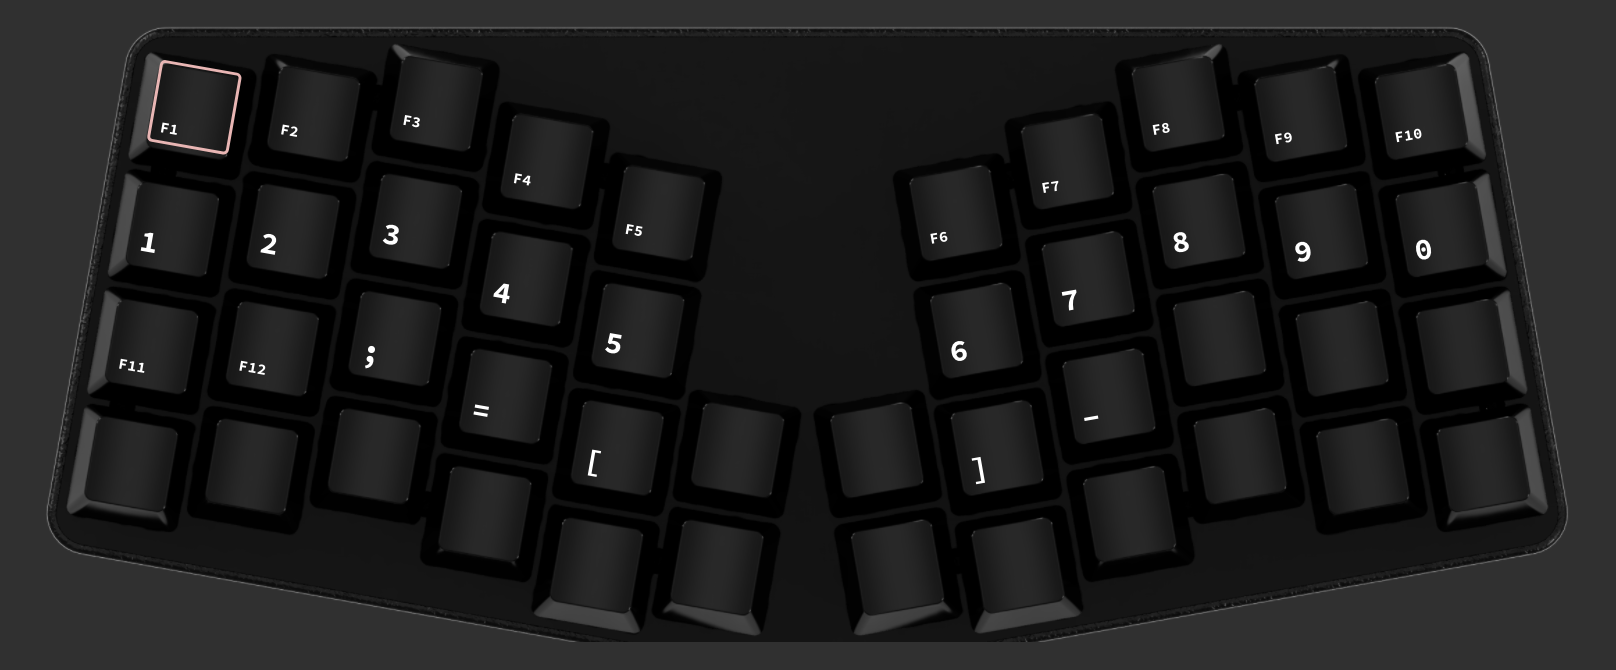
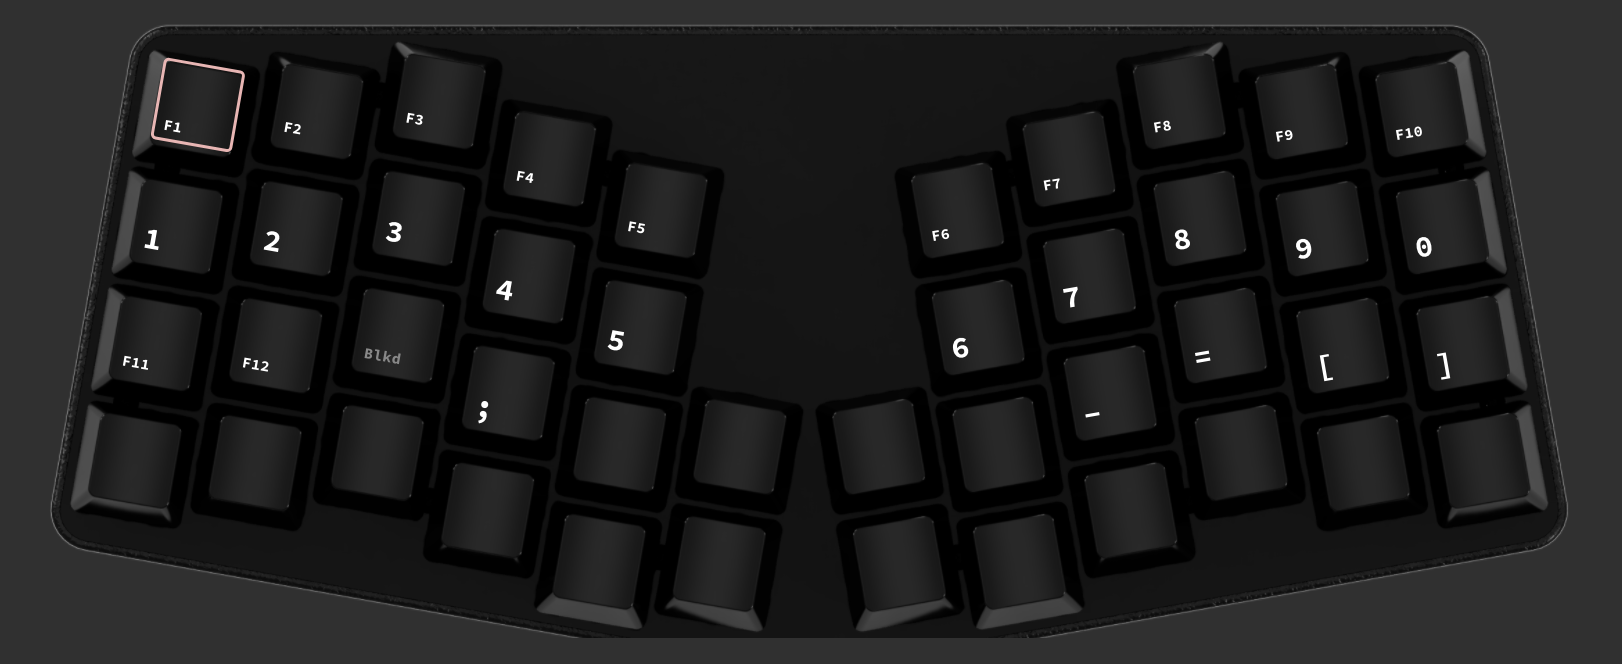
Update for symmetric vs traditional

diff --git a/README.md b/README.md
@@ -2,29 +2,46 @@
 
 This is an alternate keyboard layout initially based on the work done in [MTGAP][1] and [CTGAP][2] [[notes](#notes)].
 
-```txt
-w c d l k j y o u /
-r s t h v p n e i a
-q b g m x z f ' , .
-```
+There are two variations which primarily differ in where the punctuation is.
 
-## Analysis
+
+## Symmetric
+
+This layout is intended for use on matrix/ortholinear keyboards, with punctuation in the center columns for balanced finger usage.
+
+```txt
+w c d l ' / y o u q
+r s t h k p n e i a
+v b g m , . f j x z
+```
 
 ### ModDH
 
-[SteveP's ModDH Analyzer](https://colemakmods.github.io/mod-dh/analyze.html) in Matrix mode.
+[SteveP's ModDH Analyzer](https://colemakmods.github.io/mod-dh/analyze.html) in Matrix Simple mode. I chose to omit
+the SFB calculation as this analyzer seems to punish this punctuation more than others.
 ![ModDH Analyzer](ModDH.png)
 
 ### KLA
 
-[KLA Analyzer](https://klanext.keyboard-design.com) using the Alice in Wonderland corpus and the KLA JSON included in this repo.
+[KLA Analyzer](https://klanext.keyboard-design.com) using the Test corpus and the KLA JSON files included in this repo.
 ![KLA Analyzer](KLA.png)
 
-[1]: https://mathematicalmulticore.wordpress.com/the-keyboard-layout-project/
-[2]: https://github.com/CTGAP/ctgap-keyboard-layout
+---
+## Traditional
+
+This variation has a more traditional punctuation layout.
+
+```txt
+w c d l q j y o u /
+r s t h k p n e i a
+v b g m x z f ' , .
+```
+### ModDH
+
+[SteveP's ModDH Analyzer](https://colemakmods.github.io/mod-dh/analyze.html) in Matrix Simple mode.
+![ModDH Analyzer](ModDH%20Traditional.png)
 
 ---
-
 ## Notes
 
 The CTGAP repo was taken offline. Layout for posterity is as follows:
@@ -33,3 +50,6 @@ w c l d k  j y o u /
 r s t h m  p n e i a
 z v g f b  q x ' , .
 ```
+
+[1]: https://mathematicalmulticore.wordpress.com/the-keyboard-layout-project/
+[2]: https://github.com/CTGAP/ctgap-keyboard-layout

diff --git a/Atreus/README.md b/Atreus/README.md
@@ -4,6 +4,8 @@ Since I use an Atreus keyboard, I have a custom setup for the rest of my keymap 
 
 The JSON config file for the Keyboard.io graphical configurator [Chrysalis](https://github.com/keyboardio/Chrysalis) is included [here](APT.json).
 
+**Note**: Only the symmetric configuration is provided.
+
 ## Base Layers
 
 The first layer is the APT layout, with some additional punctuation on the extra middle keys.
